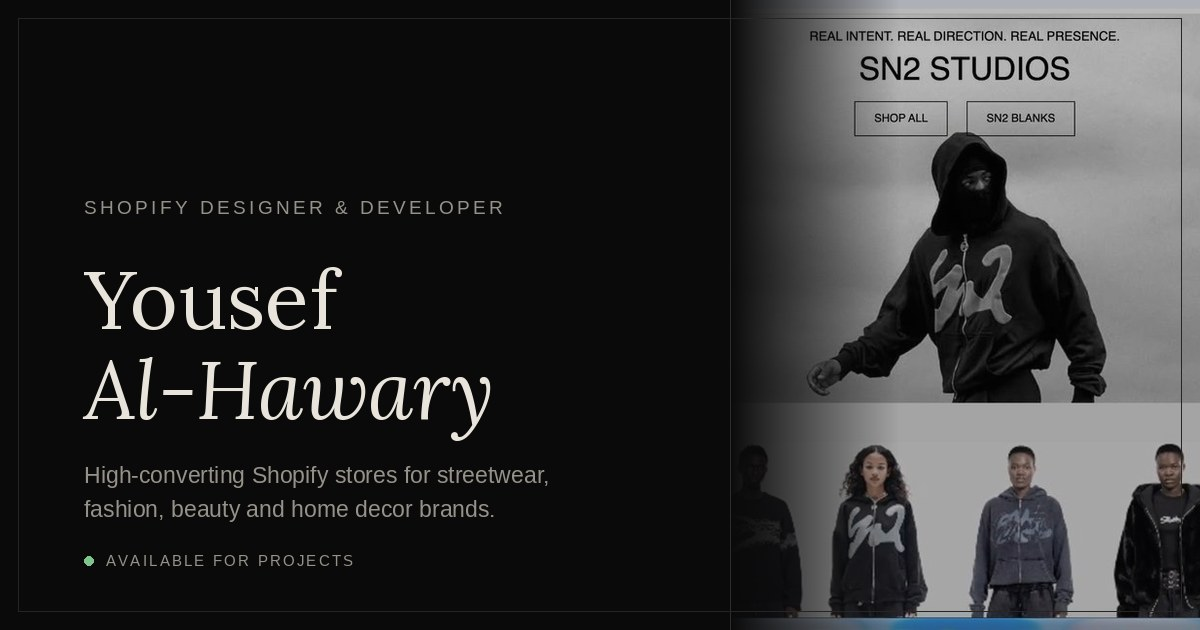
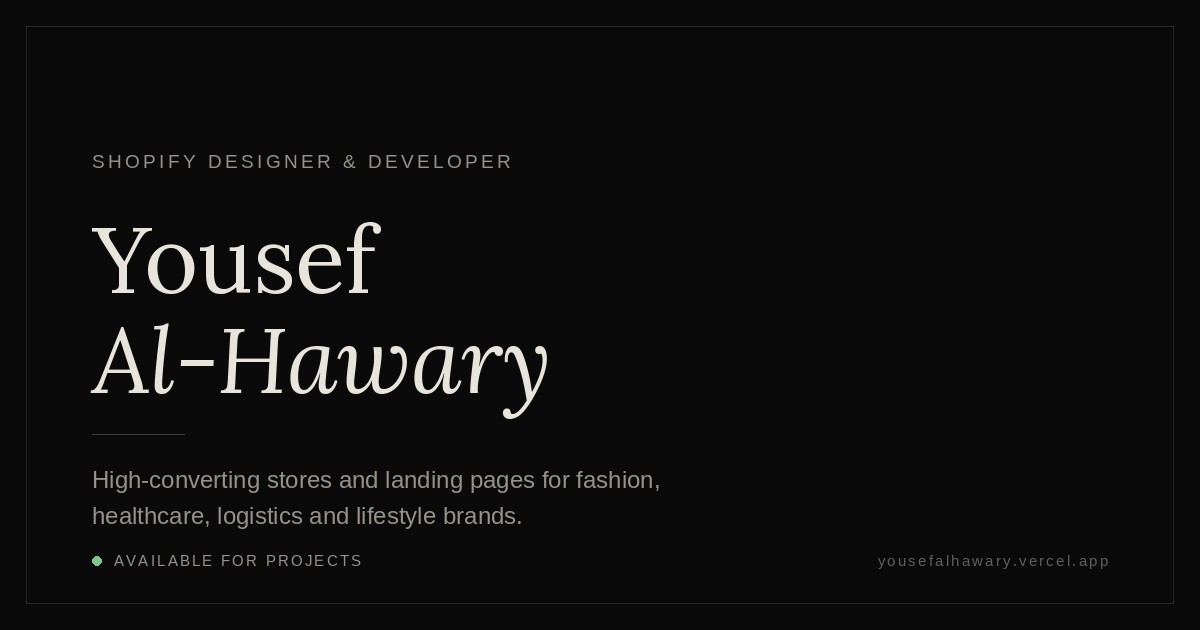
Feature NaviLink in the hero, set canonical site URL
- Hero now shows NaviLink (logistics) instead of SN2 Studios, which is
  no longer part of the portfolio. Until a screenshot of the live site
  is available the hero uses a browser-window mock carrying the project
  name and domain, so it still reads as a website rather than a gap.
- Set NaviLink's category to Logistics.
- Rebuild the Open Graph card without the removed SN2 screenshot; it is
  now typographic, so it does not depend on any one client's imagery.
- Point canonical, og:url and og:image at yousefalhawary.vercel.app.
  Absolute URLs are resolved reliably by every scraper; relative ones
  are not.
- Update the hero paragraph and meta descriptions to name the sectors
  actually on show (fashion, healthcare, logistics, lifestyle) instead
  of the previous streetwear/beauty/home decor lineup.

diff --git a/index.html b/index.html
@@ -5,24 +5,25 @@
 <meta name="viewport" content="width=device-width, initial-scale=1.0, viewport-fit=cover">
 <meta name="theme-color" content="#0a0a0a">
 <title>Yousef Al-Hawary — Shopify Designer &amp; Developer</title>
-<meta name="description" content="Shopify designer and developer building high-converting stores for streetwear, fashion, beauty and home decor brands. Design in Figma, built in Liquid — 2–4 day turnaround.">
+<meta name="description" content="Shopify designer and developer building high-converting stores and landing pages for fashion, healthcare, logistics and lifestyle brands. Design in Figma, built in Liquid — 2–4 day turnaround.">
 <meta name="author" content="Yousef Al-Hawary">
-<link rel="canonical" href="/">
+<link rel="canonical" href="https://yousefalhawary.vercel.app/">
 
 <!-- Link previews (WhatsApp, LinkedIn, Slack, iMessage, X) -->
+<meta property="og:url" content="https://yousefalhawary.vercel.app/">
 <meta property="og:type" content="website">
 <meta property="og:site_name" content="Yousef Al-Hawary">
 <meta property="og:title" content="Yousef Al-Hawary — Shopify Designer &amp; Developer">
-<meta property="og:description" content="High-converting Shopify stores for streetwear, fashion, beauty and home decor brands — designed and built end to end.">
-<meta property="og:image" content="/images/og-card.jpg">
+<meta property="og:description" content="High-converting stores and landing pages for fashion, healthcare, logistics and lifestyle brands — designed and built end to end.">
+<meta property="og:image" content="https://yousefalhawary.vercel.app/images/og-card.jpg">
 <meta property="og:image:width" content="1200">
 <meta property="og:image:height" content="630">
 <meta property="og:image:alt" content="Yousef Al-Hawary — Shopify designer and developer">
 <meta property="og:locale" content="en_US">
 <meta name="twitter:card" content="summary_large_image">
 <meta name="twitter:title" content="Yousef Al-Hawary — Shopify Designer &amp; Developer">
-<meta name="twitter:description" content="High-converting Shopify stores for streetwear, fashion, beauty and home decor brands — designed and built end to end.">
-<meta name="twitter:image" content="/images/og-card.jpg">
+<meta name="twitter:description" content="High-converting stores and landing pages for fashion, healthcare, logistics and lifestyle brands — designed and built end to end.">
+<meta name="twitter:image" content="https://yousefalhawary.vercel.app/images/og-card.jpg">
 
 <link rel="icon" type="image/png" sizes="32x32" href="/images/favicon-32.png">
 <link rel="apple-touch-icon" href="/images/apple-touch-icon.png">
@@ -348,12 +349,12 @@
         </div>
       </div>
     </div>
-    <p class="pf-hero-desc">I design and build high-converting Shopify stores for streetwear, fashion, beauty, and home decor brands — from pixel-perfect design to clean, live code.</p>
+    <p class="pf-hero-desc">I design and build high-converting stores and landing pages for fashion, healthcare, logistics, and lifestyle brands — from pixel-perfect design to clean, live code.</p>
     <a href="mailto:mxhdtr@gmail.com" class="pf-cta">Get in touch ↗</a>
   </div>
   <div class="pf-hero-right">
     <div class="pf-hero-img">
-      <picture><source srcset="images/hero-sn2-featured.webp" type="image/webp"><img src="images/hero-sn2-featured.jpg" width="1200" height="648" loading="eager" decoding="async" fetchpriority="high" alt="SN2 Studios — featured project"></picture>
+      <picture><source srcset="images/hero-navilink.webp" type="image/webp"><img src="images/hero-navilink.jpg" width="1200" height="900" loading="eager" decoding="async" fetchpriority="high" alt="NaviLink — featured project"></picture>
     </div>
     <div class="pf-stats-row">
       <div class="pf-stat">
@@ -427,7 +428,7 @@
     <a href="https://navilink-eg.vercel.app" target="_blank" rel="noopener noreferrer" class="pf-work-card">
       <div class="pf-work-img"><picture><source srcset="images/navilink.webp" type="image/webp"><img src="images/navilink.jpg" width="1200" height="648" loading="lazy" decoding="async" alt="NaviLink"></picture></div>
       <div class="pf-work-info">
-        <div class="pf-work-cat">Client project</div>
+        <div class="pf-work-cat">Logistics</div>
         <div class="pf-work-name">NaviLink</div>
         <div class="pf-work-url">navilink-eg.vercel.app</div>
         <div class="pf-work-sub">Web design &amp; build</div>
